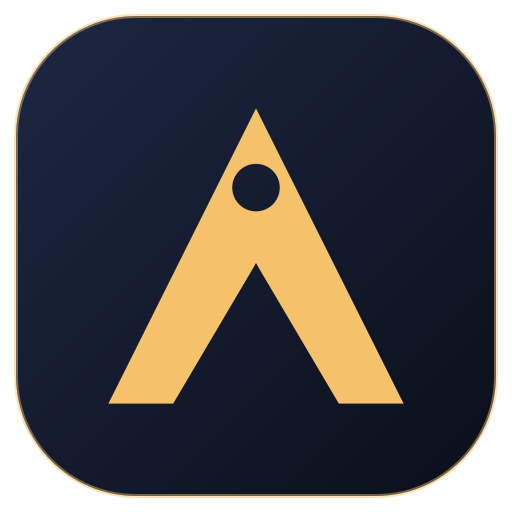
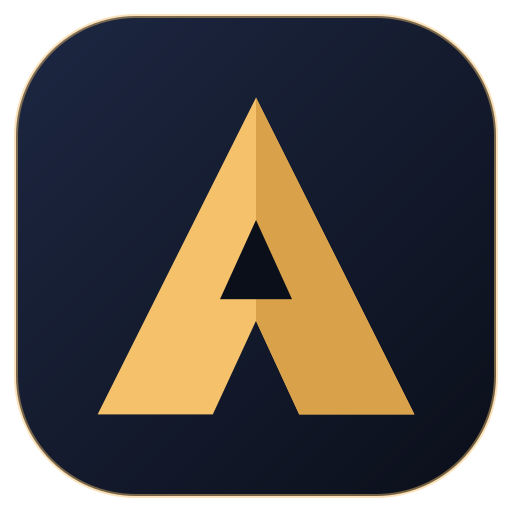
docs: profile README

Changed region(s): [[0.1875, 0.1875, 0.8125, 0.8125]]

diff --git a/company-profile-pdf.html b/company-profile-pdf.html
@@ -56,7 +56,7 @@
   <section class="sheet dark cover">
     <div class="glow"></div>
     <div>
-      <div class="brandmark"><svg viewBox="0 0 100 100" aria-hidden="true"><path d="M50 9 L91 91 H73 L50 52 L27 91 H9 Z" fill="currentColor"/><circle cx="50" cy="31" r="6.6" fill="#0b0f1a"/><path d="M50 52 L67 90 H33 Z" fill="#0b0f1a"/></svg></div>
+      <div class="brandmark"><svg viewBox="0 0 100 100" aria-hidden="true"><path d="M50 6 L94 94 H62 L50 68 L38 94 H6 Z" fill="currentColor"/><path d="M50 6 L94 94 H62 L50 68 Z" fill="currentColor" opacity=".72"/><path d="M50 40 L60 62 H40 Z" fill="#0b0f1a"/></svg></div>
       <div style="margin-top:8mm"><div class="wordmark">ARVION</div><div class="sub" style="margin-top:2mm">Technologies</div></div>
     </div>
     <div>
@@ -79,7 +79,7 @@
       <div class="card"><h3>AI features</h3><p>Retrieval over your documents, extraction, drafting and evaluation harnesses with honest fallbacks.</p></div>
     </div>
     <div class="statgrid">
-      <div><b>34</b><span>open-source projects</span></div>
+      <div><b>42</b><span>open-source projects</span></div>
       <div><b>1,200+</b><span>automated tests</span></div>
       <div><b>2</b><span>products in production</span></div>
       <div><b>8</b><span>visual systems shipped</span></div>

diff --git a/banner-anim.html b/banner-anim.html
@@ -105,7 +105,7 @@
   <div class="content">
     <div class="mark-wrap">
       <div class="ring"></div>
-      <img src="assets/peak-a.svg" alt="Arvion" style="width:78px;height:78px" />
+      <img src="assets/prism-a.svg" alt="Arvion" style="width:78px;height:78px" />
     </div>
     <div class="words">
       <div class="wordmark">Arvion <span>Technologies</span></div>
@@ -115,7 +115,7 @@
     </div>
     <div class="rule"></div>
     <div class="right">
-      <div class="count">34<br /><em>projects</em></div>
+      <div class="count">42<br /><em>projects</em></div>
       <div class="count-label">open source, MIT licensed<br />every demo runs in your browser</div>
     </div>
   </div>

diff --git a/README.md b/README.md
@@ -12,7 +12,7 @@ design, backend and release.
 
 [![Website](https://img.shields.io/badge/arviontech.net-0b0f1a?style=for-the-badge&logo=googlechrome&logoColor=f5c26b)](https://arviontech.net)
 [![Email](https://img.shields.io/badge/hello@arviontech.net-0b0f1a?style=for-the-badge&logo=maildotru&logoColor=f5c26b)](mailto:hello@arviontech.net)
-[![Labs](https://img.shields.io/badge/34_open--source_projects-0b0f1a?style=for-the-badge&logo=github&logoColor=f5c26b)](https://arvion-technology.github.io/labs/)
+[![Labs](https://img.shields.io/badge/42_open--source_projects-0b0f1a?style=for-the-badge&logo=github&logoColor=f5c26b)](https://arvion-technology.github.io/labs/)
 
 </div>
 
@@ -35,6 +35,21 @@ design, backend and release.
 | **Cloud and delivery** | AWS and GCP, Docker, Kubernetes, CI/CD, observability, cost control, runbooks. |
 | **Payments and integrations** | eSewa, Khalti, Stripe, Razorpay, SMS/OTP, KYC providers, ERP and CRM integrations. |
 | **AI features** | Retrieval over your own documents, document extraction, drafting and evaluation harnesses: with an honest fallback when the model is unavailable. |
+
+## Languages and stacks
+
+| Language | Projects |
+| --- | --- |
+| TypeScript / JavaScript | 31, across Next.js, React, Vue, NestJS and browser-only demos |
+| YAML / Docker / Helm | 3, compose-cookbook, k8s-blueprint, ci-templates |
+| Python | 1, ragforge |
+| Dart | 1, gharkosathi-app |
+| Rust | 1, findr |
+| Go | 1, gatekeeper |
+| C# / .NET | 1, northwind-api |
+| PHP | 1, ledgerbox |
+| Java | 1, tally-api |
+| HCL / Terraform | 1, aws-baseline |
 
 ## Products we run
 
@@ -74,7 +89,7 @@ Written up with the problem, the build, the architecture and the decisions behin
 
 ## Open-source labs
 
-Thirty-four runnable projects, each with tests, a live demo and an honest README. They are how we
+Forty-two runnable projects, each with tests, a live demo and an honest README. They are how we
 work when nobody is watching. Every demo is static and runs in your browser, no
 sign-up, no API key. Full gallery: **[arvion-technology.github.io/labs](https://arvion-technology.github.io/labs/)**
 
@@ -101,6 +116,9 @@ sign-up, no API key. Full gallery: **[arvion-technology.github.io/labs](https://
 - **[PeopleOps](https://github.com/arvion-technology/peopleops)**: onboarding checklists, leave accrual and approvals · [demo](https://arvion-technology.github.io/labs/demos/peopleops/demo/)
 - **[EventPass](https://github.com/arvion-technology/eventpass)**: ticketing with a QR encoder written from scratch · [demo](https://arvion-technology.github.io/labs/demos/eventpass/demo/)
 - **[SchoolKit](https://github.com/arvion-technology/schoolkit)**: attendance, fee ledger, exams and report cards · [demo](https://arvion-technology.github.io/labs/demos/schoolkit/demo/)
+- **[Atlas Portal](https://github.com/arvion-technology/atlas-portal)**: customer portal in Next.js 15 with React Server Components, invoices and tickets · [demo](https://arvion-technology.github.io/labs/demos/atlas-portal/demo/)
+- **[Helm Ops](https://github.com/arvion-technology/helm-ops)**: incident, deploy and on-call console in React 19 with a typed reducer · [demo](https://arvion-technology.github.io/labs/demos/helm-ops/demo/)
+- **[Vantage](https://github.com/arvion-technology/vantage)**: billing admin console in Vue 3 with bulk changes and an audit diff view · [demo](https://arvion-technology.github.io/labs/demos/vantage/demo/)
 
 ### Productivity and collaboration
 
@@ -110,6 +128,8 @@ sign-up, no API key. Full gallery: **[arvion-technology.github.io/labs](https://
 ### Commerce
 
 - **[Bazaar Store](https://github.com/arvion-technology/storefront)**: storefront and back office: catalogue, cart, promo codes, checkout, order states · [demo](https://arvion-technology.github.io/labs/demos/storefront/demo/)
+
+- **[Ledgerbox](https://github.com/arvion-technology/ledgerbox)**: invoicing and ledger in plain PHP 8 with SQLite, payments and aging · [demo](https://arvion-technology.github.io/labs/demos/ledgerbox/demo/)
 
 ### AI and data
 
@@ -128,10 +148,16 @@ sign-up, no API key. Full gallery: **[arvion-technology.github.io/labs](https://
 - **[EnvSafe](https://github.com/arvion-technology/envsafe)**: typed, validated environment configuration that fails at boot · [demo](https://arvion-technology.github.io/labs/demos/envsafe/demo/)
 - **[SearchLite](https://github.com/arvion-technology/searchlite)**: full-text search with BM25, stemming, fuzzy queries and facets · [demo](https://arvion-technology.github.io/labs/demos/searchlite/demo/)
 
+- **[Findr](https://github.com/arvion-technology/findr)**: log analysis CLI in Rust with filters, aggregations and percentiles · [demo](https://arvion-technology.github.io/labs/demos/findr/demo/)
+- **[Gatekeeper](https://github.com/arvion-technology/gatekeeper)**: rate limiting HTTP gateway in Go, standard library only · [demo](https://arvion-technology.github.io/labs/demos/gatekeeper/demo/)
+
 ### Backend and realtime
 
 - **[QueueKit](https://github.com/arvion-technology/queuekit)**: durable background jobs with backoff, concurrency limits and a dead-letter queue · [demo](https://arvion-technology.github.io/labs/demos/queuekit/demo/)
 - **[SocketChat](https://github.com/arvion-technology/socketchat)**: WebSocket chat server on node:http with no dependencies · [demo](https://arvion-technology.github.io/labs/demos/socketchat/demo/)
+
+- **[Northwind API](https://github.com/arvion-technology/northwind-api)**: typed minimal API in C# .NET 8 with xUnit tests and problem details · [demo](https://arvion-technology.github.io/labs/demos/northwind-api/demo/)
+- **[Tally](https://github.com/arvion-technology/tally-api)**: expense API on the JDK HTTP server, no framework and no build tool · [demo](https://arvion-technology.github.io/labs/demos/tally-api/demo/)
 
 ### Cloud and DevOps
 
